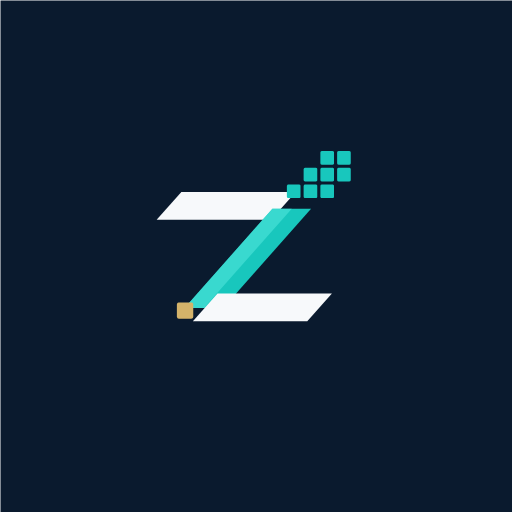
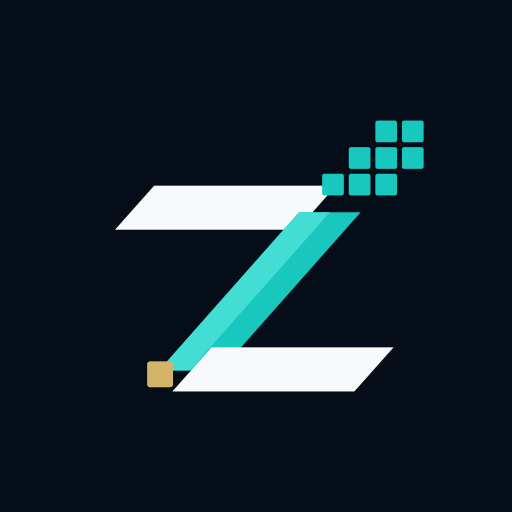
feat(employee-portal): منع الطلبات الزمنية بأيام ناقصة البصمة + أيقونات وشاشة إقلاع
- شرط حازم: يُمنع تقديم أي طلب يحمل وقتاً (أوفرتايم/مغادرة) إذا كان أي يوم
  ضمن مداه حالته Incomplete (بصمة ناقصة/نسيان بصمة) في DayAttendances —
  يُرفض قبل الإدراج برسالة تطلب معالجة البصمة أولاً.
- إعادة توليد أيقونات PWA (icon/maskable/apple-touch) بخلفية #050d18 عبر
  sharp لتندمج مع خلفية التطبيق (يختفي المربّع بشاشة الإقلاع النيتف)، مع
  background_color/theme_color=#050d18، وروابط ?v=2 لكسر كاش الأجهزة.
- شاشة الإقلاع داخل التطبيق: خلفية مطابقة + شعار أكبر (250px) + سكيل-أنميشن
  احترافي. رفع نسخة SW إلى v9.

Changed region(s): [[0.2188, 0.2188, 0.8438, 0.7812], [0.0, 0.0, 0.0312, 0.0312]]

diff --git a/SmartAttendance.Web/wwwroot/sw.js b/SmartAttendance.Web/wwwroot/sw.js
@@ -4,7 +4,7 @@
  *  - نداءات /api/ (بيانات شخصية): شبكة فقط — لا تُخزَّن أبداً.
  *  - الأصول الثابتة (css/js/lib/brand/الأيقونات): stale-while-revalidate.
  */
-const VERSION = 'v8';
+const VERSION = 'v9';
 const STATIC_CACHE = `sa-static-${VERSION}`;
 const OFFLINE_URL = '/offline.html';
 

diff --git a/SmartAttendance.Web/Pages/EmployeePortal/Index.cshtml.cs b/SmartAttendance.Web/Pages/EmployeePortal/Index.cshtml.cs
@@ -328,6 +328,32 @@ SELECT CAST(SCOPE_IDENTITY() AS int);
             return RedirectToPage(new { tab = "requests" });
         }
 
+        // شرط حازم وجازم: يُمنع منعاً باتّاً تقديم أي طلب يحمل وقتاً إذا كان أحد أيامه
+        // يحمل «بصمة ناقصة» (نسيان بصمة) في سجل الحضور — يجب معالجة البصمة أولاً.
+        if (typeDef is { NeedsTime: true })
+        {
+            var incompleteDay = await HrmsDatabase.ScalarAsync<string>(
+                _dbContext,
+                """
+SELECT TOP 1 CONVERT(varchar(10), WorkDate, 23)
+FROM DayAttendances
+WHERE EmployeeId = @Emp AND Status = N'Incomplete'
+  AND WorkDate BETWEEN @From AND @To
+ORDER BY WorkDate;
+""",
+                command =>
+                {
+                    HrmsDatabase.AddParameter(command, "@Emp", employeeId);
+                    HrmsDatabase.AddParameter(command, "@From", from.Value.Date);
+                    HrmsDatabase.AddParameter(command, "@To", to.Value.Date);
+                });
+            if (!string.IsNullOrEmpty(incompleteDay))
+            {
+                StatusMessage = $"تعذّر تقديم الطلب: يوم {incompleteDay} يحمل بصمة ناقصة (نسيان بصمة) في سجل الحضور. يجب معالجة البصمة أولاً قبل تقديم أي طلب بوقت لذلك اليوم.";
+                return RedirectToPage(new { tab = "requests" });
+            }
+        }
+
         // تقاطع منتصف الليل للأنواع الزمنية (أوفرتايم/مغادرة متأخرة): النهاية في اليوم التالي.
         if (typeDef is { NeedsTime: true } &&
             TimeSpan.TryParse(fromTime, out var stTs) && TimeSpan.TryParse(toTime, out var etTs) &&
